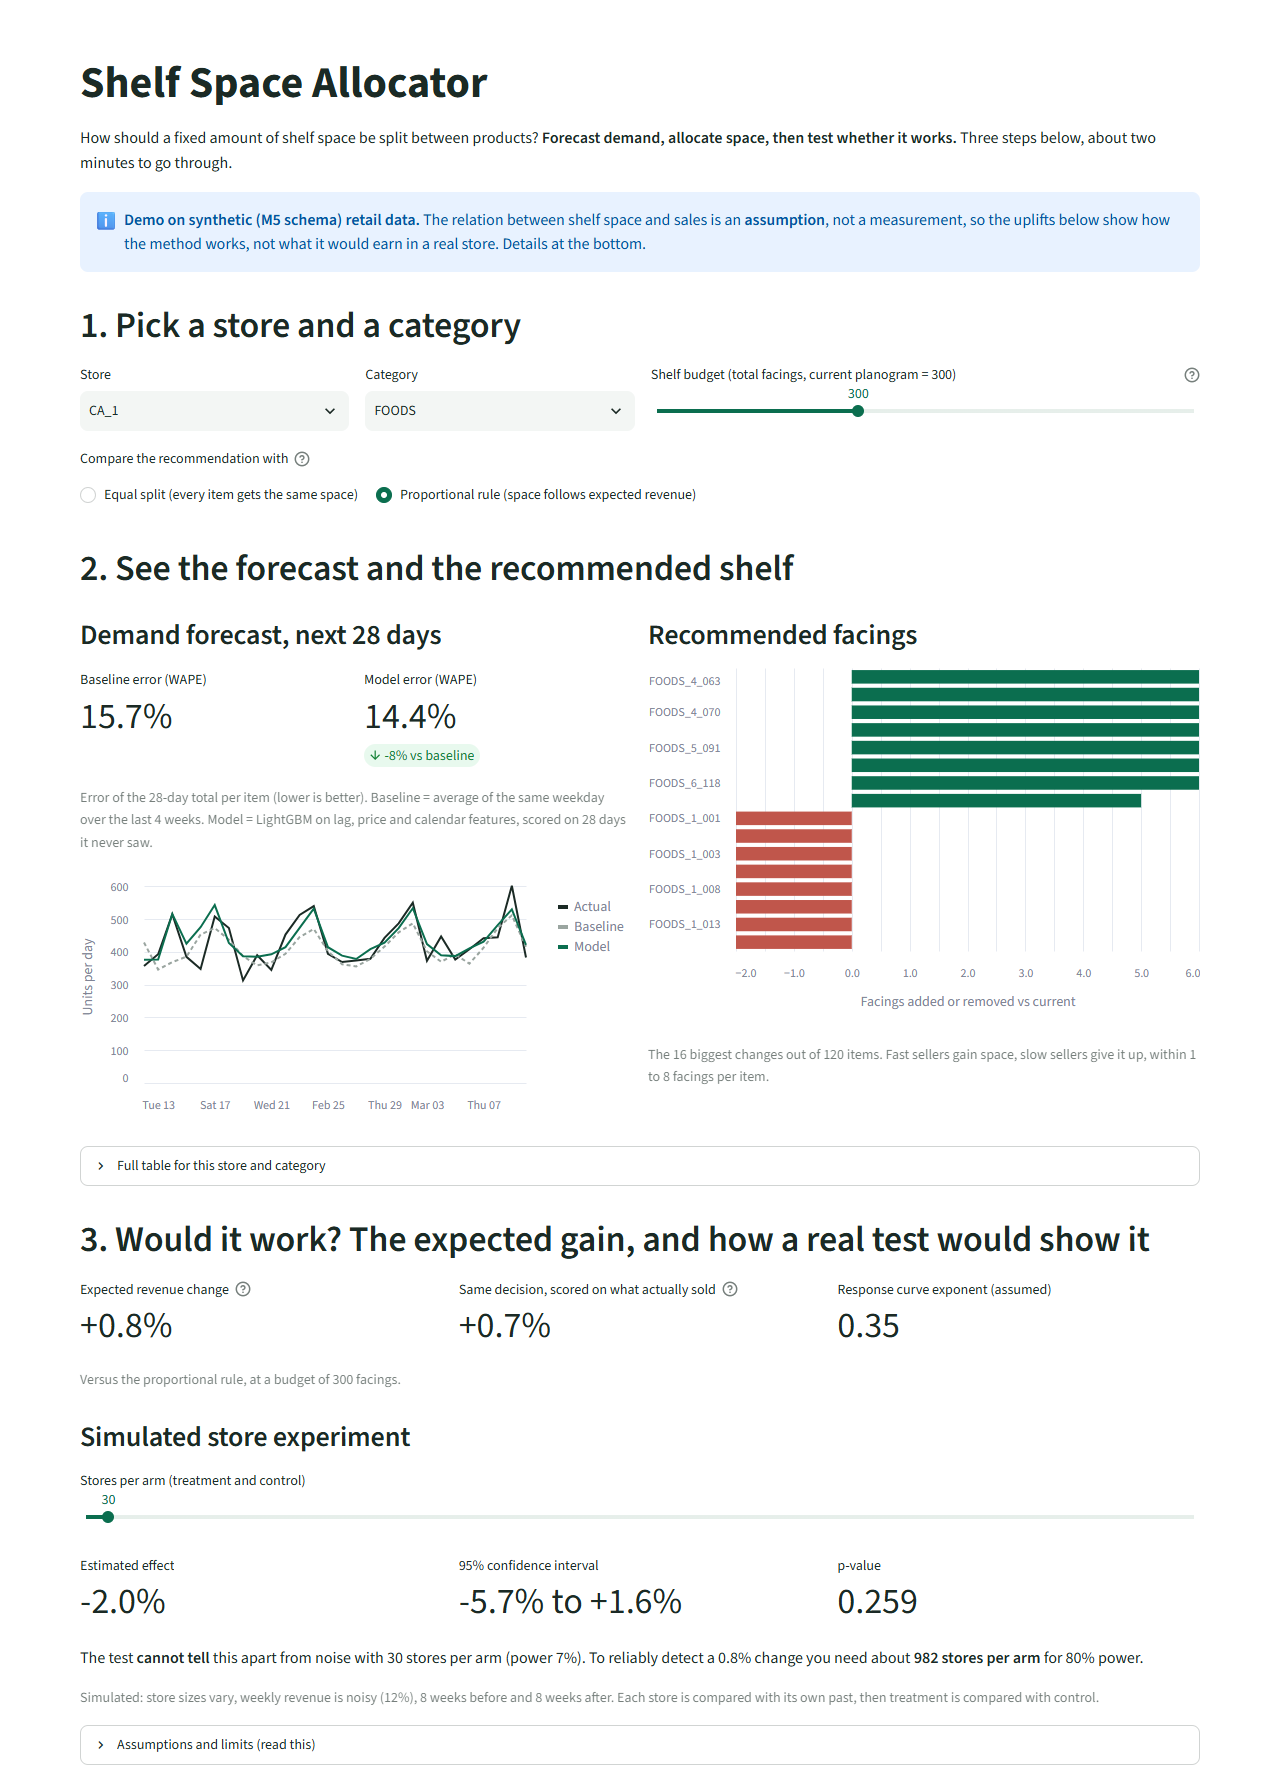
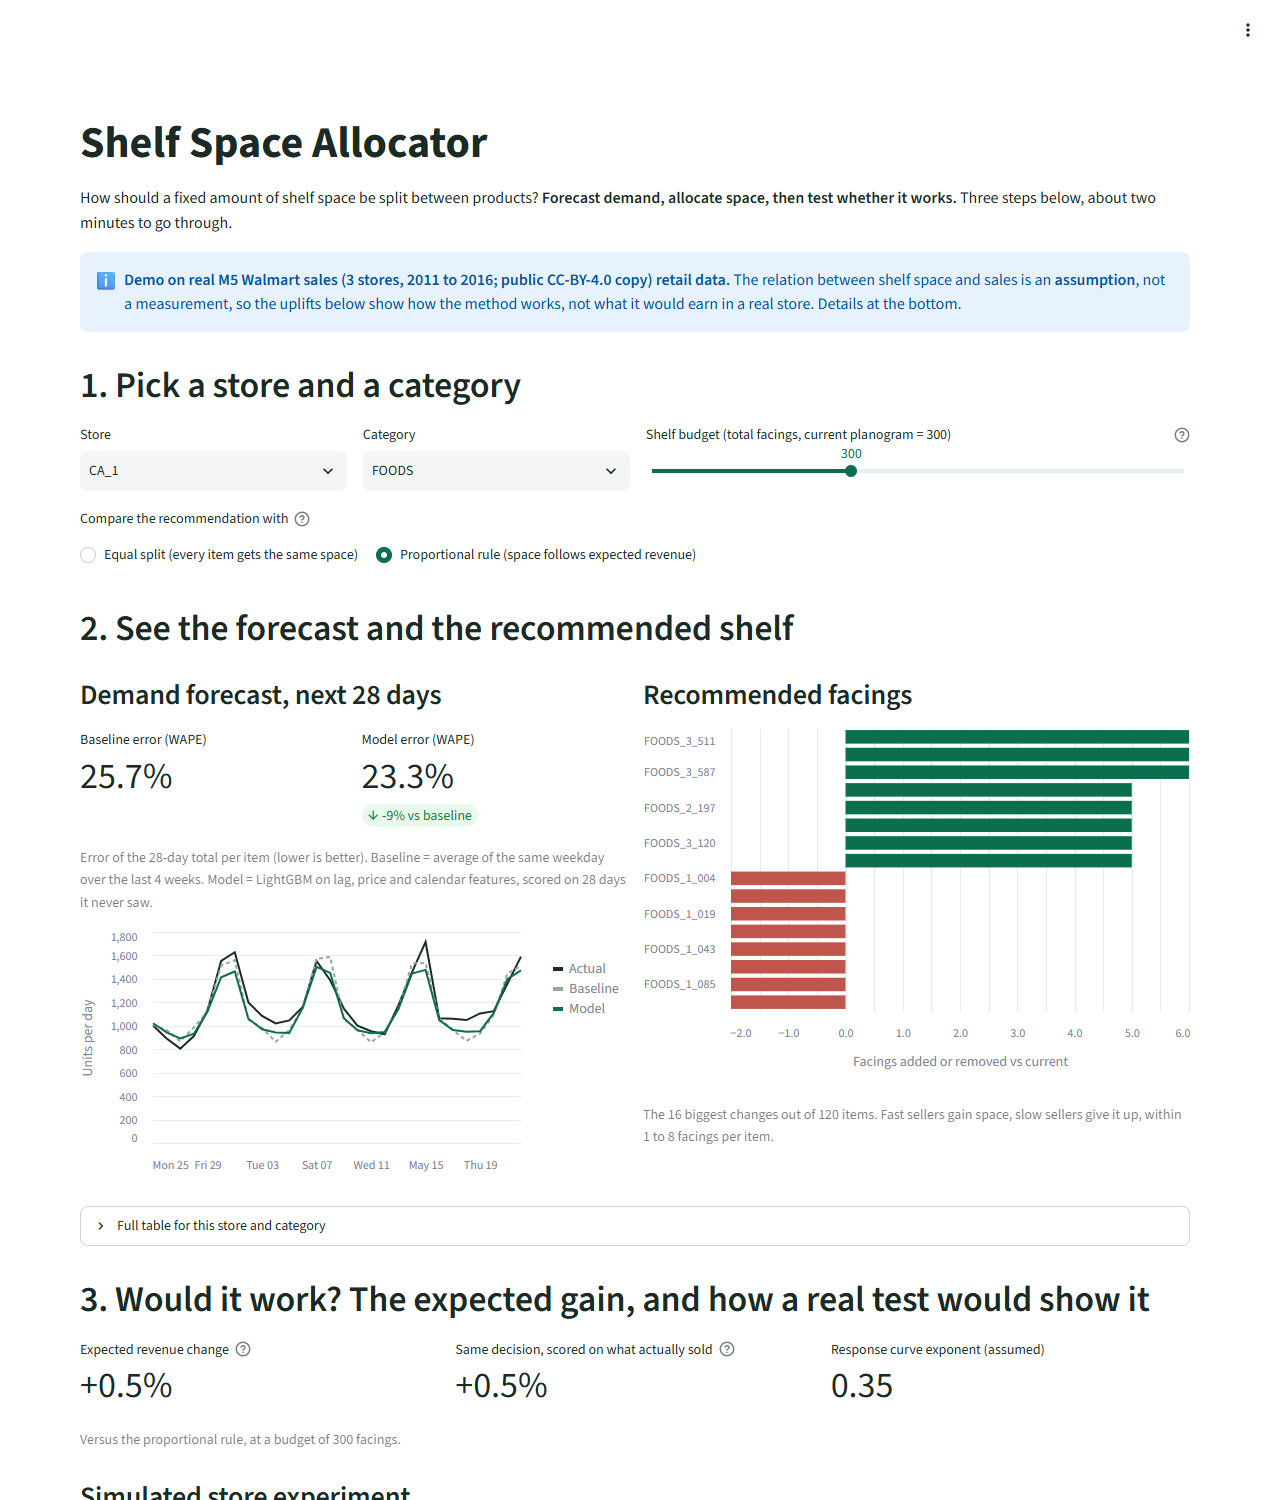
Use real M5 data: refresh results, README, docs, screenshot
Claude-Session: https://claude.ai/code/session_01TwRJJDcsn5XqhFejU99T44

diff --git a/app/streamlit_app.py b/app/streamlit_app.py
@@ -232,7 +232,7 @@ with st.expander("Assumptions and limits (read this)", expanded=False):
     st.markdown(
         f"""
 - **Data:** {metrics["data_source"]}. 3 stores, 3 categories, {len(demand) // 3} items per store.
-  The code reads the public M5 Walmart files unchanged if they are placed in `data/raw/`.
+  Forecast accuracy is measured on real held-out sales (25 Apr to 22 May 2016).
 - **Shelf space is simulated.** Public data has no planogram, so sales are assumed to follow
   `sales = demand × (space ÷ current space)^α` with α = {ALPHA}. Real α would have to come from store
   experiments or planogram history.

diff --git a/README.md b/README.md
@@ -8,11 +8,12 @@ shows how a real store experiment would be designed and powered.
 
 ![Screenshot of the demo](docs/screenshot.png)
 
-> **Read this first.** The demo runs on **synthetic retail data in the public M5 (Walmart) format**.
-> Public data has no shelf plans, so the link between shelf space and sales is an **assumption**
-> (`sales = demand × (space / current space)^α`), not a measurement. The uplifts show how the method
-> works, not what it would earn in a real store. The code reads the real M5 files unchanged if they
-> are placed in `data/raw/`.
+> **Read this first.** The demo runs on the **real public M5 (Walmart) sales data** (3 stores, 3
+> categories, 300 best-selling items, 2011 to 2016). Public data has no shelf plans, so the link
+> between shelf space and sales is an **assumption** (`sales = demand × (space / current space)^α`),
+> not a measurement. The forecast numbers are measured on real held-out sales; the revenue uplifts
+> show how the method works, not what it would earn in a real store. A synthetic generator with the
+> same schema is included for tests and offline use.
 
 ## What it does
 
@@ -27,26 +28,26 @@ shows how a real store experiment would be designed and powered.
 Heavy work (Spark and training) runs offline and writes small files to `results/`. The live app only
 reads those and runs the fast optimiser, so no Spark in production.
 
-## Results (synthetic data, 900 store-item series, 28-day holdout)
+## Results (real M5 data, 900 store-item series, 28-day holdout 25 Apr to 22 May 2016)
 
 | Forecast error (WAPE, lower is better) | Seasonal naive | LightGBM |
 |---|---|---|
-| 28-day total per item (what the shelf decision uses) | 17.0% | **15.4%** |
-| Daily per item | 68.4% | **64.2%** |
+| 28-day total per item (what the shelf decision uses) | 26.0% | **23.9%** |
+| Daily per item | 58.4% | **53.4%** |
 
 Daily item-level error is high because most items sell a few units a day (count noise); totals over
-28 days average much of it out. Per category the model wins on WAPE everywhere; on MASE it is level
-with the baseline for HOBBIES. Full numbers in `results/metrics.json`.
+28 days average much of it out. The model wins on WAPE in every category and on MASE overall
+(1.01 against 1.08). Full numbers in `results/metrics.json`.
 
-| Shelf allocation uplift in expected revenue | FOODS | HOUSEHOLD | HOBBIES |
+| Shelf allocation uplift in expected revenue (mean of 3 stores) | FOODS | HOUSEHOLD | HOBBIES |
 |---|---|---|---|
-| vs equal split (stylised "current") | +25.9% | +12.8% | +9.8% |
-| vs proportional-to-revenue rule | +0.8% | +0.2% | +0.1% |
+| vs equal split (stylised "current") | +20.6% | +10.6% | +10.3% |
+| vs proportional-to-revenue rule | +0.5% | +0.3% | +0.4% |
 
 The honest reading: most of the gain comes from not splitting space equally. Against a sensible rule
-the optimiser adds under 1%, and a change that small would need roughly 900 to 1,000 stores per arm
-to confirm in a store test (about 30 stores per arm can only detect effects above about 4%). The app
-lets you switch between both comparisons and shows the power calculation.
+the optimiser adds well under 1%, and a change that small would need roughly 2,400 to 8,400 stores
+per arm to confirm in a store test (about 30 stores per arm can only detect effects above about 4%).
+The app lets you switch between both comparisons and shows the power calculation.
 
 The allocation is chosen from the forecast and then re-scored with what actually sold in the held-out
 window ("backtest"), so forecast error cannot quietly inflate the number.
@@ -65,7 +66,7 @@ window ("backtest"), so forecast error cannot quietly inflate the number.
 
 ```bash
 pip install -e ".[app,train,dev]"
-python scripts/make_synthetic.py        # or put the M5 csv files in data/raw/
+python scripts/make_synthetic.py        # or put the real M5 csv files in data/raw/ (see below)
 python -m shelfspace.pipeline           # Spark + LightGBM, writes results/ (~3 min)
 streamlit run app/streamlit_app.py
 pytest -q                               # add -m "not spark" to skip the Java-dependent tests
@@ -76,10 +77,12 @@ heap (`get_spark` in `data.py`).
 
 ## Using real M5 data
 
-Download `calendar.csv`, `sales_train_evaluation.csv` and `sell_prices.csv` from the
-[M5 Forecasting competition](https://www.kaggle.com/competitions/m5-forecasting-accuracy/data) into
-`data/raw/`, then run the pipeline. It keeps the best-selling items per category for 3 stores
-(`config.py`). The synthetic generator uses the same schema.
+The published results use the real M5 files (`calendar.csv`, `sales_train_evaluation.csv`,
+`sell_prices.csv`), put in `data/raw/` (git-ignored). The competition is on
+[Kaggle](https://www.kaggle.com/competitions/m5-forecasting-accuracy/data); a CC-BY-4.0 copy of the
+same archive is on [Zenodo](https://zenodo.org/records/12636070). The pipeline keeps the
+best-selling items per category for 3 stores (`config.py`). The synthetic generator uses the same
+schema.
 
 ## What I would do with real data
 

diff --git a/docs/for-category-managers.md b/docs/for-category-managers.md
@@ -7,7 +7,7 @@
 1. **Predicts what each product will sell** over the next four weeks. It looks at recent sales, the
    price and the calendar (weekdays, holidays). It is checked on four weeks of sales it never saw,
    and compared with a simple rule of thumb: "same as the last four same weekdays".
-   On the demo data, the prediction of four-week sales per product is about 9% closer to reality
+   On real Walmart sales data, the prediction of four-week sales per product is about 8% closer to reality
    than that rule of thumb.
 2. **Moves space to where it earns most.** Extra space for a product helps less and less (the
    fifth facing sells less than the second). The tool gives the next facing to whichever product
@@ -17,13 +17,13 @@
 
 **What to take from the demo numbers.**
 
-- Against an *equal split* (every product the same space), the recommended shelf earns 10 to 26%
+- Against an *equal split* (every product the same space), the recommended shelf earns 10 to 21%
   more in the model. Most of that comes from simply not splitting space equally.
 - Against a *sensible rule* (space follows expected revenue), the gain is below 1%. A change that
-  small needs roughly 900 to 1,000 stores per group to prove in a test. With 30 stores per group you could
+  small needs roughly 2,400 to 8,400 stores per group to prove in a test. With 30 stores per group you could
   only notice a change above about 4%.
 
-**What the demo does not know.** It uses practice data, not Albert Heijn data. How strongly sales
+**What the demo does not know.** It uses public Walmart data, not Albert Heijn data. How strongly sales
 react to extra shelf space is an assumption in the model, not a measurement. Real shelf plans,
 margins, product substitution and supplier agreements are not included. The method carries over;
 the numbers do not.
